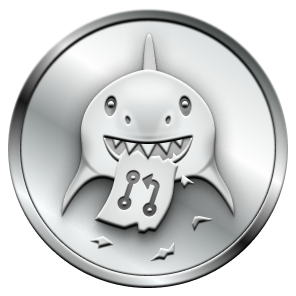
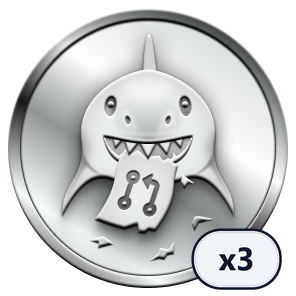
feat(achievements): add x3 multiplier badge to Silver Pull Shark medallion

Changed region(s): [[0.6385, 0.7601, 0.973, 1.0]]

diff --git a/README.md b/README.md
@@ -81,7 +81,7 @@
   </a>
   <br/><br/>
 <!--START_SECTION:achievements-->
-  <a href="https://github.com/chimataraghuram?achievement=pull-shark&tab=achievements"><img src="https://github.githubassets.com/assets/pull-shark-silver-0643f87ac9fd.png" width="105" alt="Pull Shark (Silver x3)" /></a>
+  <a href="https://github.com/chimataraghuram?achievement=pull-shark&tab=achievements"><img src="https://raw.githubusercontent.com/chimataraghuram/chimataraghuram/main/images/pull-shark-silver-x3.png?v=20261119" width="105" alt="Pull Shark (Silver x3)" /></a>
   &nbsp;&nbsp;&nbsp;&nbsp;
   <a href="https://github.com/chimataraghuram?achievement=pair-extraordinaire&tab=achievements"><img src="https://github.githubassets.com/assets/pair-extraordinaire-default-579438a20e01.png" width="105" alt="Pair Extraordinaire" /></a>
   &nbsp;&nbsp;&nbsp;&nbsp;
@@ -91,7 +91,7 @@
   &nbsp;&nbsp;&nbsp;&nbsp;
   <a href="https://github.com/chimataraghuram?achievement=quickdraw&tab=achievements"><img src="https://github.githubassets.com/assets/quickdraw-default-39c6aec8ff89.png" width="105" alt="Quickdraw" /></a>
   <br/>
-  <a href="https://github.com/chimataraghuram?achievement=pull-shark&tab=achievements"><img src="https://raw.githubusercontent.com/chimataraghuram/chimataraghuram/main/images/badge_label_pull_shark.svg" width="105" alt="Pull Shark x3" /></a>
+  <a href="https://github.com/chimataraghuram?achievement=pull-shark&tab=achievements"><img src="https://raw.githubusercontent.com/chimataraghuram/chimataraghuram/main/images/badge_label_pull_shark.svg?v=20261119" width="105" alt="Pull Shark x3" /></a>
   &nbsp;&nbsp;&nbsp;&nbsp;
   <a href="https://github.com/chimataraghuram?achievement=pair-extraordinaire&tab=achievements"><img src="https://raw.githubusercontent.com/chimataraghuram/chimataraghuram/main/images/badge_label_pair_extraordinaire.svg" width="105" alt="Pair Extraordinaire" /></a>
   &nbsp;&nbsp;&nbsp;&nbsp;
